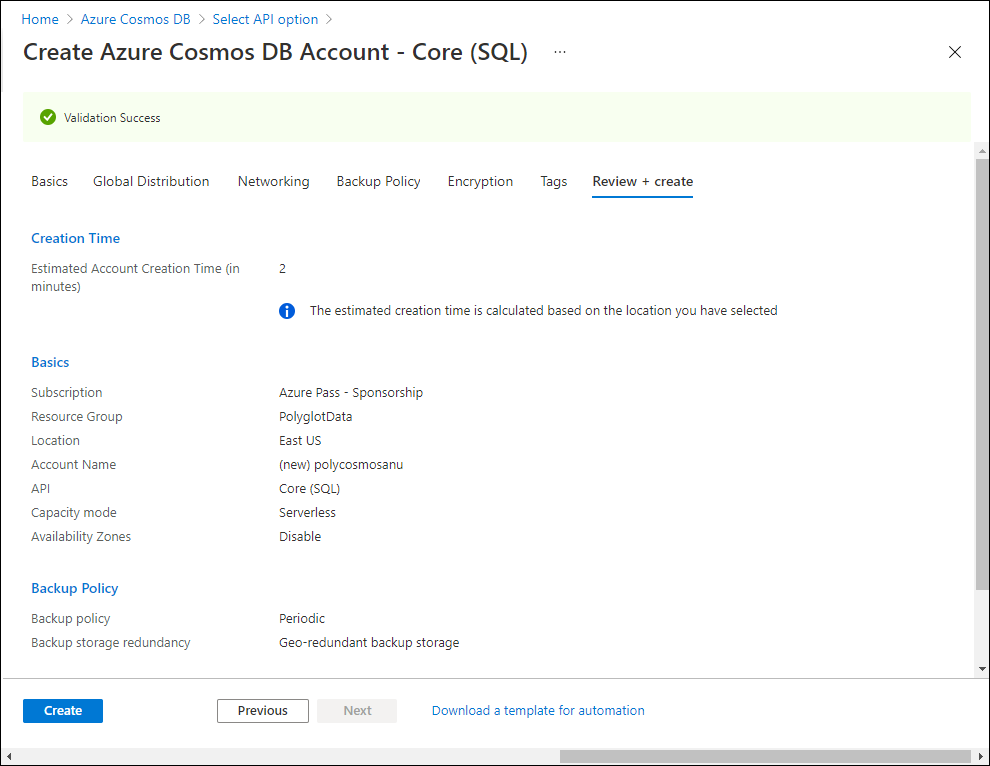
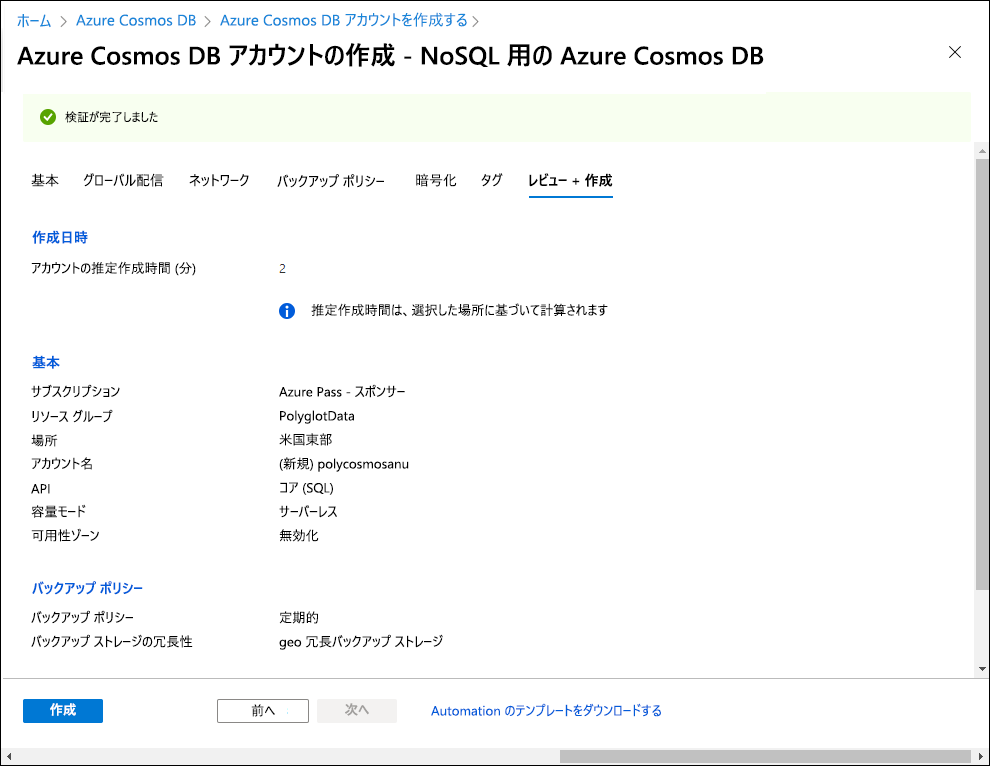
Copy Files From Source Repo (2022-12-09 18:31)

diff --git a/Instructions/Labs/AZ-204_lab_04.md b/Instructions/Labs/AZ-204_lab_04.md
@@ -46,7 +46,7 @@ Windows 10 デスクトップでタスク バーを見つけます。 タスク 
 
 #### <a name="task-1-open-the-azure-portal"></a>タスク 1: Azure portal を開く
 
-1.  タスク バーで、**Microsoft Edge** アイコンを選択します。
+1.  タスク バーで、 **[Microsoft Edge]** アイコンを選択します。
 
 1.  開いたブラウザー ウィンドウで、Azure portal ([portal.azure.com](https://portal.azure.com)) にアクセスしてから、このラボで使用するアカウントでサインインします。
 
@@ -58,9 +58,9 @@ Windows 10 デスクトップでタスク バーを見つけます。 タスク 
 
 1.   **[Azure Cosmos DB]** ブレードで、 **[+ 作成]** を選択します。
 
-1.   **[API オプションの選択]**  ブレードで、 **[コア (SQL) - 推奨]** ボックスの **[作成]** を選択します。
+1.   **[API オプションの選択]**  ブレードで、 **[Azure Cosmos DB for NoSQL]** ボックスの **[作成]** を選択します。
 
-1.  **[Azure Cosmos DB アカウントの作成 - コア (SQL)]** ブレードの **[基本]** タブで、次の操作を実行し、 **[レビュー + 作成]** を選択します。
+1.  **[Azure Cosmos DB アカウントの作成 - Azure Cosmos DB for NoSQL]** ページの **[基本]** タブで、次の操作を実行し、 **[確認および作成]** を選択します。
 
     | 設定 | アクション |
     | -- | -- |
@@ -71,11 +71,11 @@ Windows 10 デスクトップでタスク バーを見つけます。 タスク 
     | **[場所]** ドロップダウン リスト | お使いのラボ コンピューターの場所に最も近く、Cosmos DB アカウントを作成できる Azure リージョンを選択します |
     | **[容量モード]**  セクション | **[サーバーレス]** を選択します |
     
-    次のスクリーンショットは、 **[Azure Cosmos DB アカウントの作成 - コア (SQL)]** ブレードで構成された設定を示しています。
+    次のスクリーンショットは、 **[Azure Cosmos DB アカウントの作成 - Azure Cosmos DB for NoSQL]** ページで構成された設定を示しています。
     
     ![Azure Cosmos DB アカウントの作成用に構成されたオプションを示すスクリーンショット](media/l04_cosmosdb_create_summary.png)
     
-1.  **[Azure Cosmos DB アカウントの作成 - コア (SQL)]** ブレードの **[レビュー + 作成]** タブで、前の手順で選択したオプションを確認します。 
+1.  **[Azure Cosmos DB アカウントの作成 - Azure Cosmos DB for NoSQL]** ページの **[確認および作成]** タブで、前の手順で選択したオプションを確認します。 
 
 1.  **[作成]** を選択して、指定した構成を使用して Azure Cosmos DB アカウントを作成します。
 
@@ -93,7 +93,7 @@ Windows 10 デスクトップでタスク バーを見つけます。 タスク 
 
 1.   **[ストレージ アカウント]**  ブレードで **[+ 作成]** を選択します。
 
-1.  **[ストレージ アカウントの作成]** ブレードの **[基本]** タブで、次のアクションを実行し、 **[レビュー + 作成]** を選択します。
+1.  **[ストレージ アカウントの作成]** ブレードの **[基本]** タブで、次のアクションを実行し、 **[確認]** を選択します。
 
 
     | 設定 | アクション |
@@ -110,7 +110,7 @@ Windows 10 デスクトップでタスク バーを見つけます。 タスク 
           
      ![Azure ストレージ アカウントの作成用に構成されたオプションを示すスクリーンショット](media/l04_storage_create_summary.png)
      
-1.  **[ストレージ アカウントの作成]** ブレードの **[レビュー + 作成]** タブで、前の手順で選択したオプションを確認します。
+1.  **[ストレージ アカウントの作成]** ブレードの **[確認]** タブで、前の手順で選択したオプションを確認します。
 
 1.  **[作成]** を選択して、指定した構成を使用してストレージ アカウントを作成します。
 
@@ -149,7 +149,7 @@ Windows 10 デスクトップでタスク バーを見つけます。 タスク 
 
 1.  **[BLOB のアップロード]** ポップアップで、次のアクションを実行します。
     
-    a.  **[ファイル]** セクションで **[フォルダー]** アイコンを選択します。
+    a。  **[ファイル]** セクションで **[フォルダー]** アイコンを選択します。
     
     b.  **[ファイル エクスプローラー]** ウィンドウで、**Allfiles (F):\\Allfiles\\Labs\\04\\Starter\\Images** を参照し、42 個の **.jpg** イメージ ファイルをすべて選択して、 **[開く]** を選択します。
     

diff --git a/Instructions/Labs/AZ-204_lab_09.md b/Instructions/Labs/AZ-204_lab_09.md
@@ -64,31 +64,13 @@ Windows 10 デスクトップでタスク バーを見つけます。 タスク 
 
 #### <a name="task-3-review-the-microsofteventgrid-provider-registration"></a>タスク 3: Microsoft EventGrid プロバイダーの登録を確認する
 
-1. **[Cloud Shell]** ペインで、次のコマンドを実行して、Azure CLI のルート レベルのサブグループとコマンドの一覧を取得します。
+1. **[Cloud Shell] ペイン**で次のコマンドを実行して、リソース プロバイダー "Microsoft.EventGrid" が登録されたかどうかを確認します。
 
     ```bash
-    az --help
+    az provider show --namespace Microsoft.EventGrid --query "registrationState"
     ```
 
-1. **[Cloud Shell]** ペインで、次のコマンドを実行して、リソース プロバイダーで使用できるコマンドの一覧を取得します。
-
-    ```bash
-    az provider --help
-    ```
-
-1. **[Cloud Shell]** ペインで、次のコマンドを実行して、現在登録されているすべてのプロバイダーを一覧表示します。
-
-    ```bash
-    az provider list
-    ```
-
-1. **[Cloud Shell]** ペインで、次のコマンドを実行して、現在登録されているプロバイダーの名前空間のみを一覧表示します。
-
-    ```bash
-    az provider list --query "[].namespace"
-    ```
-
-1. **[Cloud Shell]** ペインで、現在登録されているプロバイダーのリストをレビューします。 プロバイダーの一覧に **Microsoft EventGrid** プロバイダーが現在含まれていることに注目してください。
+1. **Microsoft.EventGrid** プロバイダーが登録されていることに注意してください。
 
 1. **[Cloud Shell]** ペインを閉じます。
 
@@ -488,7 +470,7 @@ Windows 10 デスクトップでタスク バーを見つけます。 タスク 
 
 1. 任意のイベントを選択し、その JSON コンテンツを確認します。
 
-1. Azure Portal に戻ります。
+1. Azure portal に戻ります。
 
 #### <a name="review"></a>確認
 
